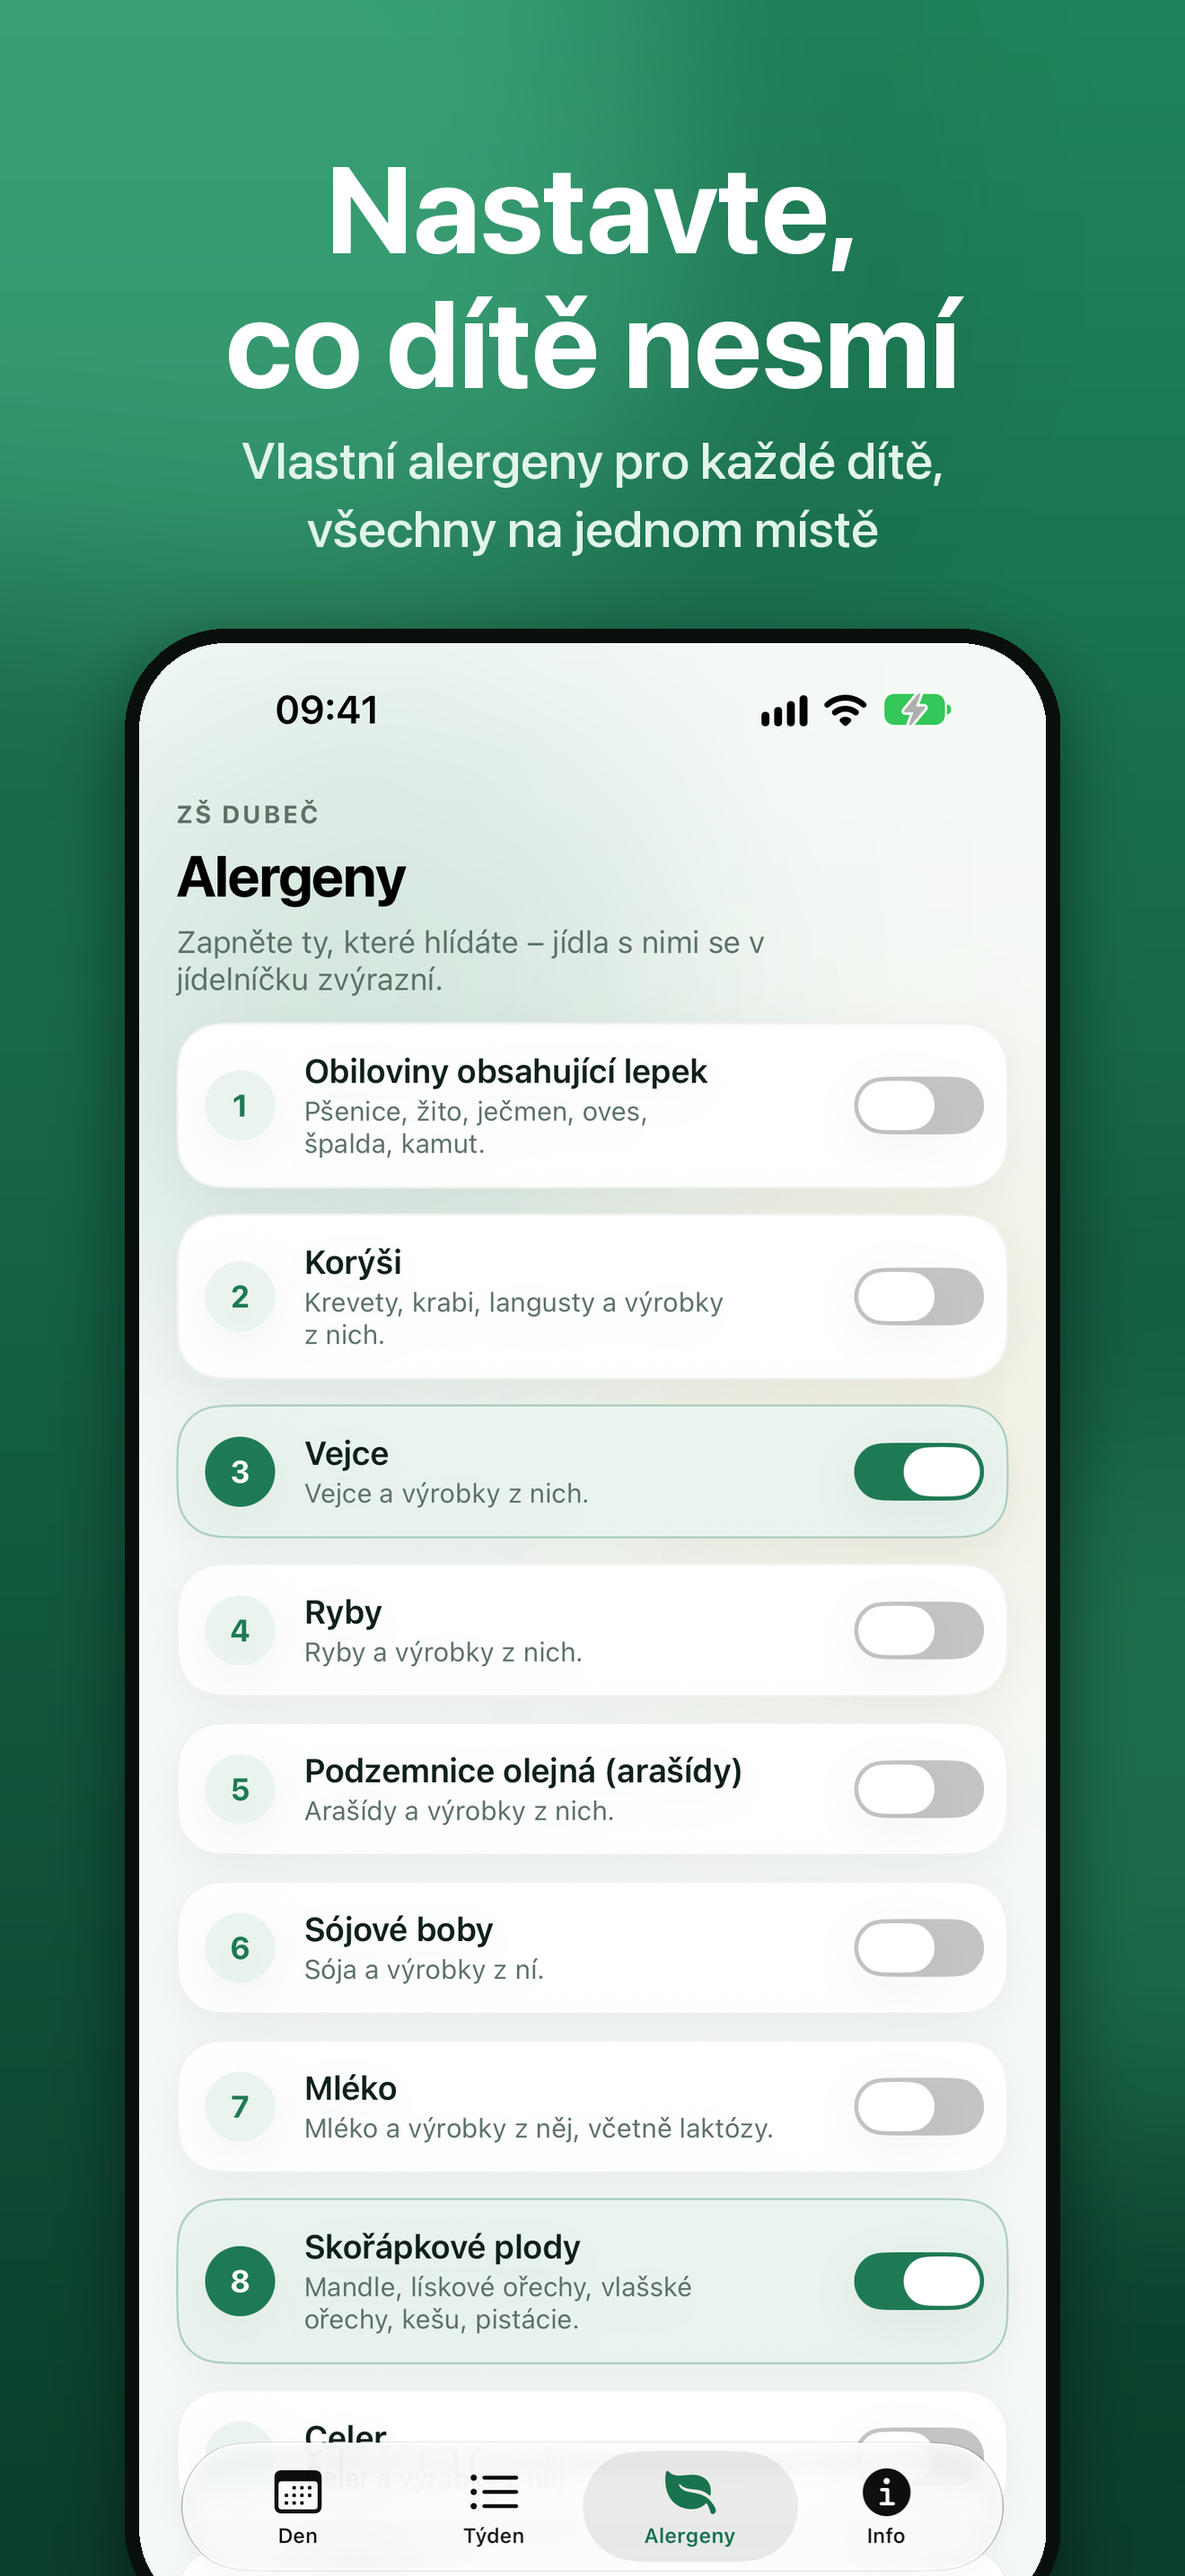
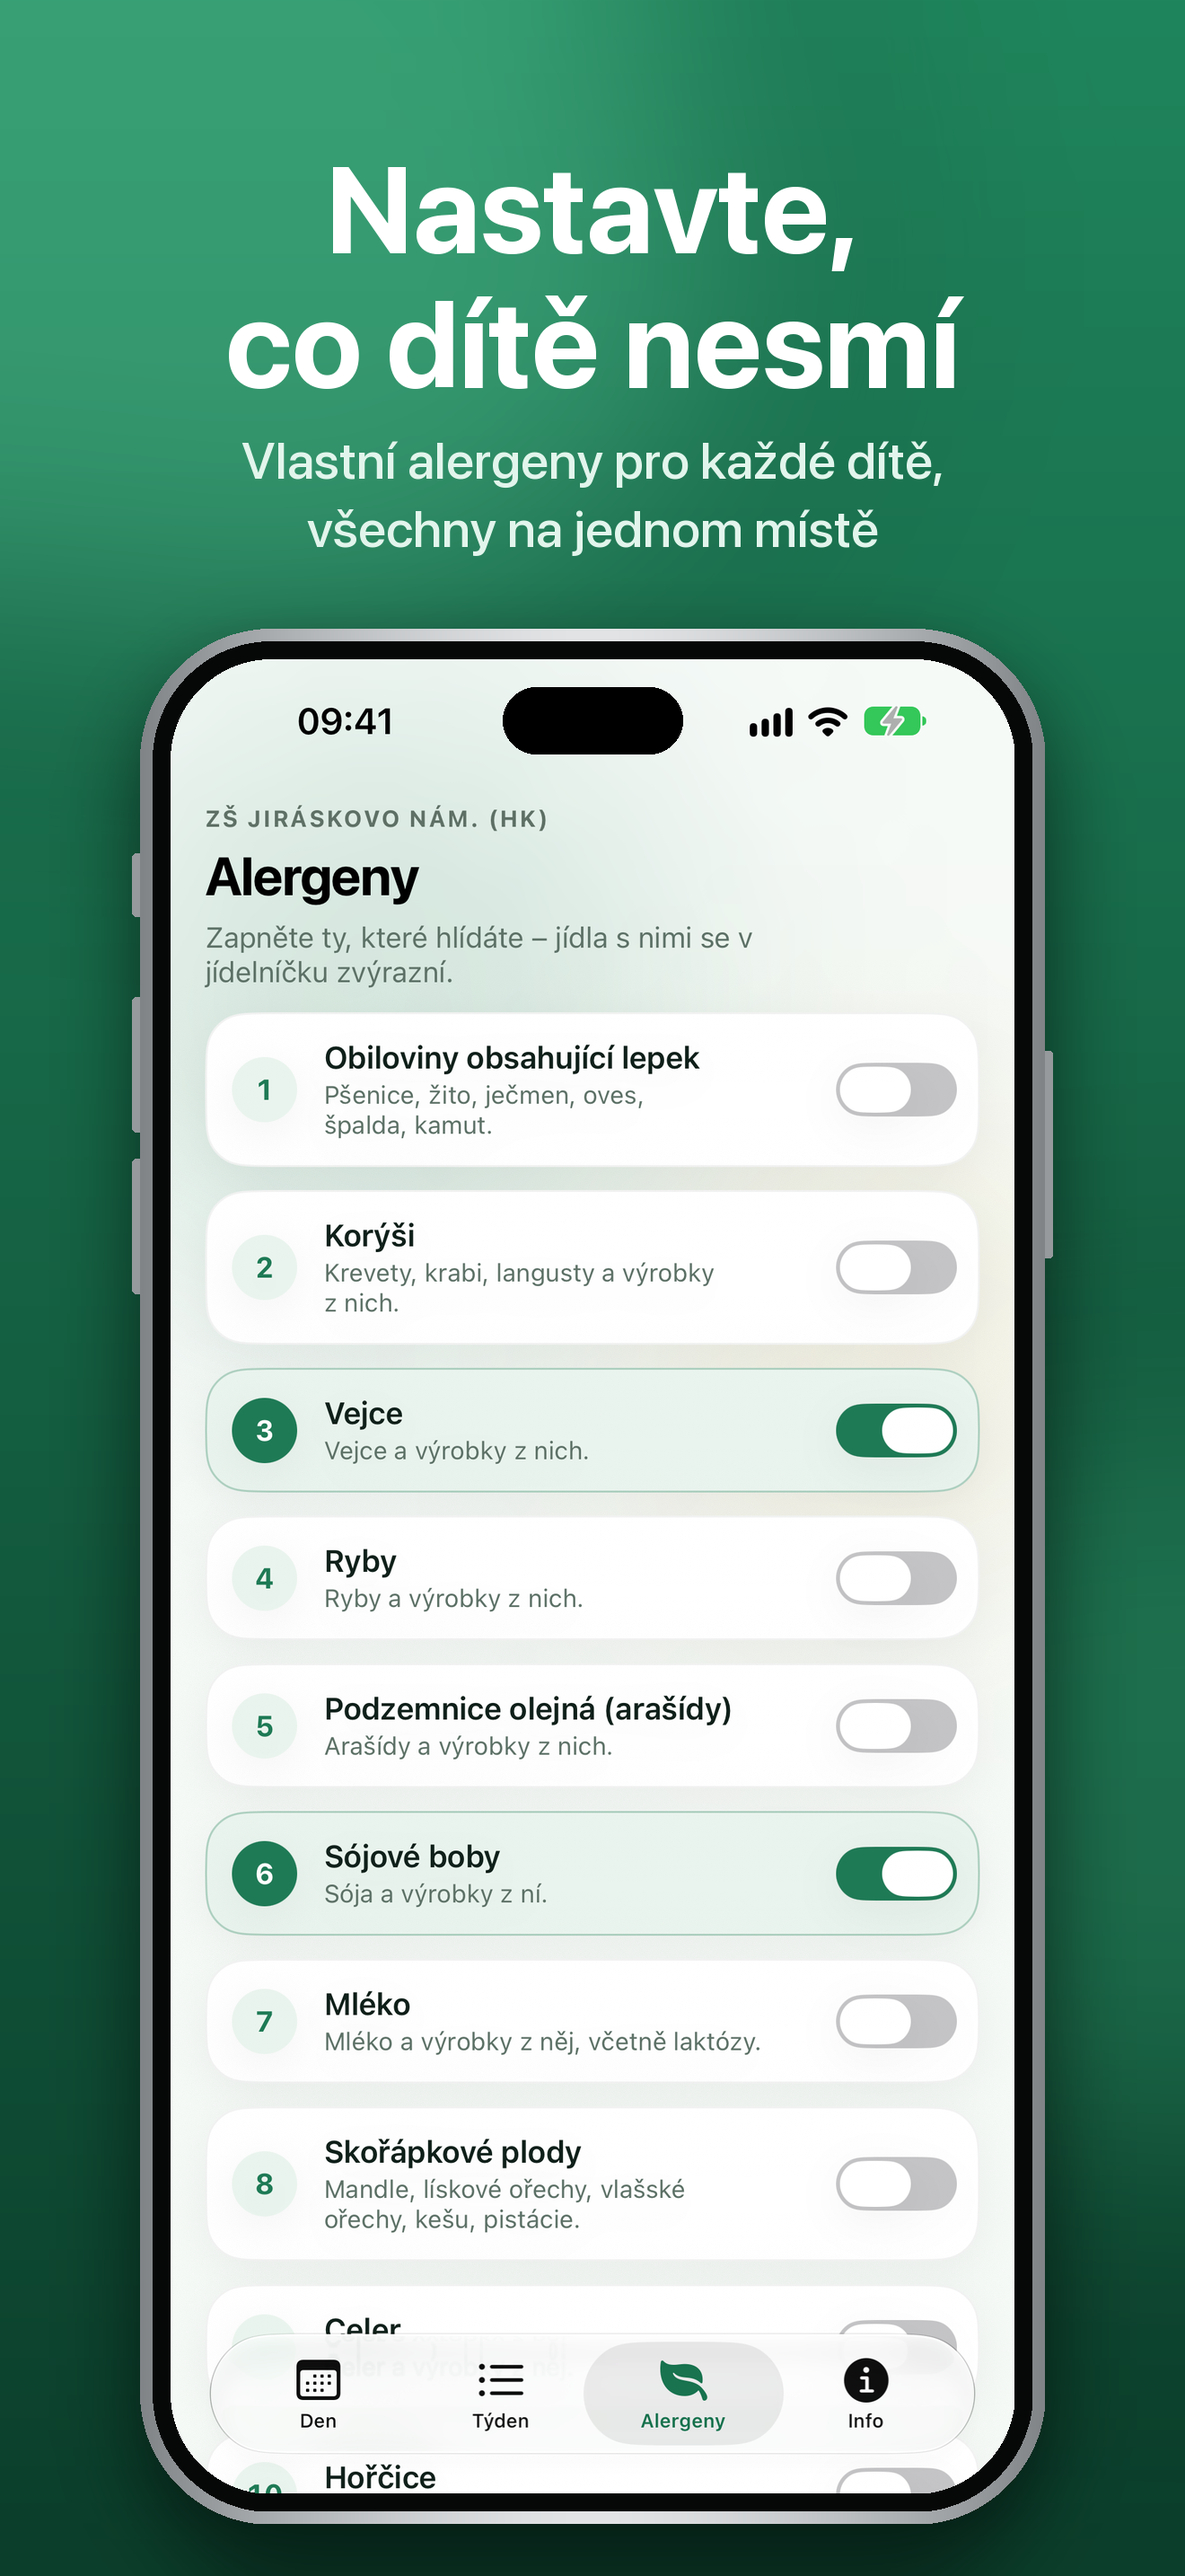
App Store screenshoty: jiná škola (ZŠ Jiráskovo nám., HK), jiná jména dětí, realistický rám iPhonu; demo nezávislé na škole

Changed region(s): [[0.0932, 0.2172, 0.9008, 1.0], [0.528, 0.8379, 0.5591, 0.8999], [0.5902, 0.8068, 0.6212, 0.8379]]

diff --git a/mobile/native/SkolaNaTaliri/OrdersService.swift b/mobile/native/SkolaNaTaliri/OrdersService.swift
@@ -55,7 +55,7 @@ final class OrdersService: NSObject, ObservableObject, WKNavigationDelegate {
     /// Ukázková data pro náhled UI (spuštění s argumentem -demoOrders): dvě děti, různé stavy.
     private func loadDemo() {
         demo = true; loggedIn = true
-        let j = ["NOVÁKOVÁ ANIČKA", "NOVÁK KVÍDO"]
+        let j = ["SVOBODOVÁ ELIŠKA", "SVOBODA ADAM"]
         func d(_ iso: String, _ a: (Int?, Bool), _ b: (Int?, Bool)) -> OrderDay {
             OrderDay(d: iso, jmena: j,
                      menu: [OrderMenu(c: 1, o: [a.0 == 1, b.0 == 1]), OrderMenu(c: 2, o: [a.0 == 2, b.0 == 2])],
@@ -73,19 +73,19 @@ final class OrdersService: NSObject, ObservableObject, WKNavigationDelegate {
 
     /// Jména dětí pro přepínač (prázdné, když není přihlášení nebo je vybraná jiná škola).
     func children(schoolId: String) -> [String] {
-        guard loggedIn, let s = snapshot, s.schoolId == schoolId else { return [] }
+        guard loggedIn, let s = snapshot, demo || s.schoolId == schoolId else { return [] }
         return s.children
     }
 
     /// Stav vybraného dítěte v daný den (nil = bez dat nebo nepřihlášeno).
     func status(_ date: String, schoolId: String) -> OrderStatus? {
-        guard loggedIn, let s = snapshot, s.schoolId == schoolId else { return nil }
+        guard loggedIn, let s = snapshot, demo || s.schoolId == schoolId else { return nil }
         return s.status(date, child: min(child, max(s.children.count - 1, 0)))
     }
 
     /// Menu přihlášená vybranému dítěti na daný den.
     func orderedMenus(_ date: String, schoolId: String) -> [Int] {
-        guard loggedIn, let s = snapshot, s.schoolId == schoolId, case .menu(let m)? = s.status(date, child: child) else { return [] }
+        guard loggedIn, let s = snapshot, demo || s.schoolId == schoolId, case .menu(let m)? = s.status(date, child: child) else { return [] }
         return m
     }
 

diff --git a/tools/make-screenshots.py b/tools/make-screenshots.py
@@ -27,7 +27,7 @@ SLIDY = [
 
 
 # Jména skutečných lidí (vedoucí jídelny/kuchyně, ředitel) se v reklamních snímcích rozostřují: {snímek: [(x0, y0, x1, y1), …]}
-ROZMAZAT = {"5-info": [(700, 2125, 1260, 2200), (700, 2262, 1260, 2337), (700, 2398, 1260, 2473)]}
+ROZMAZAT = {"5-info": [(560, 2190, 1260, 2270), (560, 2326, 1260, 2406), (560, 2462, 1260, 2540)]}
 
 
 def rozmazat(im, boxy):
@@ -68,6 +68,58 @@ def zaoblit(im, r):
     return out
 
 
+def kov(w, h, r, svetly=(226, 228, 230), tmavy=(128, 132, 135)):
+    """Titanový rám: vodorovný kovový přechod se světlým středem."""
+    g = Image.new("RGBA", (w, h))
+    px = g.load()
+    for x in range(w):
+        t = abs((x / (w - 1)) - 0.5) * 2          # 0 uprostřed, 1 na okrajích
+        c = tuple(int(svetly[i] + (tmavy[i] - svetly[i]) * (t ** 1.6)) for i in range(3))
+        for y in range(h):
+            px[x, y] = c + (255,)
+    m = Image.new("L", (w, h), 0)
+    ImageDraw.Draw(m).rounded_rectangle((0, 0, w, h), r, fill=255)
+    g.putalpha(m)
+    return g
+
+
+def iphone(shot, sw):
+    """Obrázek obrazovky → realistický iPhone (rám, tlačítka, Dynamic Island). Vrací (obrázek, (x, y0))."""
+    sh = round(shot.size[1] * sw / shot.size[0])
+    shot = shot.resize((sw, sh), Image.LANCZOS)
+    obrazovka_r = 112
+    cerny, kovovy = 20, 14
+    ob = cerny + kovovy
+    w, h = sw + 2 * ob, sh + 2 * ob
+    vnejsi_r = obrazovka_r + ob
+    tlacitko = 9
+    pl = Image.new("RGBA", (w + 2 * tlacitko, h), (0, 0, 0, 0))
+    ox = tlacitko
+    # boční tlačítka (vystupují z rámu)
+    d = ImageDraw.Draw(pl)
+    for y, v in ((250, 70), (410, 150), (590, 150)):
+        d.rounded_rectangle((ox - tlacitko, y, ox + 14, y + v), 5, fill=(150, 154, 157, 255))
+    d.rounded_rectangle((ox + w - 14, 470, ox + w + tlacitko, 470 + 230), 5, fill=(150, 154, 157, 255))
+    # kovový rám a černý okraj
+    pl.alpha_composite(kov(w, h, vnejsi_r), (ox, 0))
+    cerna = Image.new("RGBA", (w - 2 * kovovy, h - 2 * kovovy), (0, 0, 0, 0))
+    ImageDraw.Draw(cerna).rounded_rectangle((0, 0, cerna.size[0], cerna.size[1]), vnejsi_r - kovovy, fill=(6, 8, 7, 255))
+    pl.alpha_composite(cerna, (ox + kovovy, kovovy))
+    # obrazovka
+    m = Image.new("L", shot.size, 0)
+    ImageDraw.Draw(m).rounded_rectangle((0, 0, sw, sh), obrazovka_r, fill=255)
+    scr = shot.convert("RGBA"); scr.putalpha(m)
+    pl.alpha_composite(scr, (ox + ob, ob))
+    # Dynamic Island
+    iw, ih = round(290 * sw / 1320 * 0.97), round(107 * sw / 1320 * 0.97)
+    d = ImageDraw.Draw(pl)
+    ix = ox + ob + (sw - iw) // 2
+    iy = ob + round(43 * sw / 1320)
+    d.rounded_rectangle((ix, iy, ix + iw, iy + ih), ih // 2, fill=(0, 0, 0, 255))
+    x = (W - pl.size[0]) // 2
+    return pl, (x, 700)
+
+
 def text_stred(d, y, text, font, fill, mezera):
     for radek in text.split("\n"):
         w = d.textlength(radek, font=font)
@@ -84,22 +136,11 @@ def slide(jmeno, nadpis, podnadpis):
 
     shot = Image.open(RAW / f"{jmeno}.png").convert("RGB")
     shot = rozmazat(shot, ROZMAZAT.get(jmeno, []))
-    sirka = 1010
-    vyska = round(shot.size[1] * sirka / shot.size[0])
-    shot = shot.resize((sirka, vyska), Image.LANCZOS)
-    r_vnitrni = 96
-    telefon = zaoblit(shot, r_vnitrni)
-    ram = 16
-    ram_im = Image.new("RGBA", (sirka + 2 * ram, vyska + 2 * ram), (0, 0, 0, 0))
-    ImageDraw.Draw(ram_im).rounded_rectangle((0, 0, ram_im.size[0], ram_im.size[1]), r_vnitrni + ram, fill=(9, 16, 12, 255))
-    ram_im.alpha_composite(telefon, (ram, ram))
-
-    x = (W - ram_im.size[0]) // 2
-    y0 = 700
+    telefon, (x, y0) = iphone(shot, 940)
     stin = Image.new("RGBA", pl.size, (0, 0, 0, 0))
-    ImageDraw.Draw(stin).rounded_rectangle((x, y0 + 30, x + ram_im.size[0], y0 + 30 + ram_im.size[1]), r_vnitrni + ram, fill=(0, 0, 0, 120))
-    pl = Image.alpha_composite(pl, stin.filter(ImageFilter.GaussianBlur(40)))
-    pl.alpha_composite(ram_im, (x, y0))
+    ImageDraw.Draw(stin).rounded_rectangle((x + 10, y0 + 40, x + telefon.size[0] - 10, y0 + 40 + telefon.size[1]), 150, fill=(0, 0, 0, 150))
+    pl = Image.alpha_composite(pl, stin.filter(ImageFilter.GaussianBlur(46)))
+    pl.alpha_composite(telefon, (x, y0))
     pl.convert("RGB").save(OUT / f"{jmeno}.png", optimize=True)
 
 
